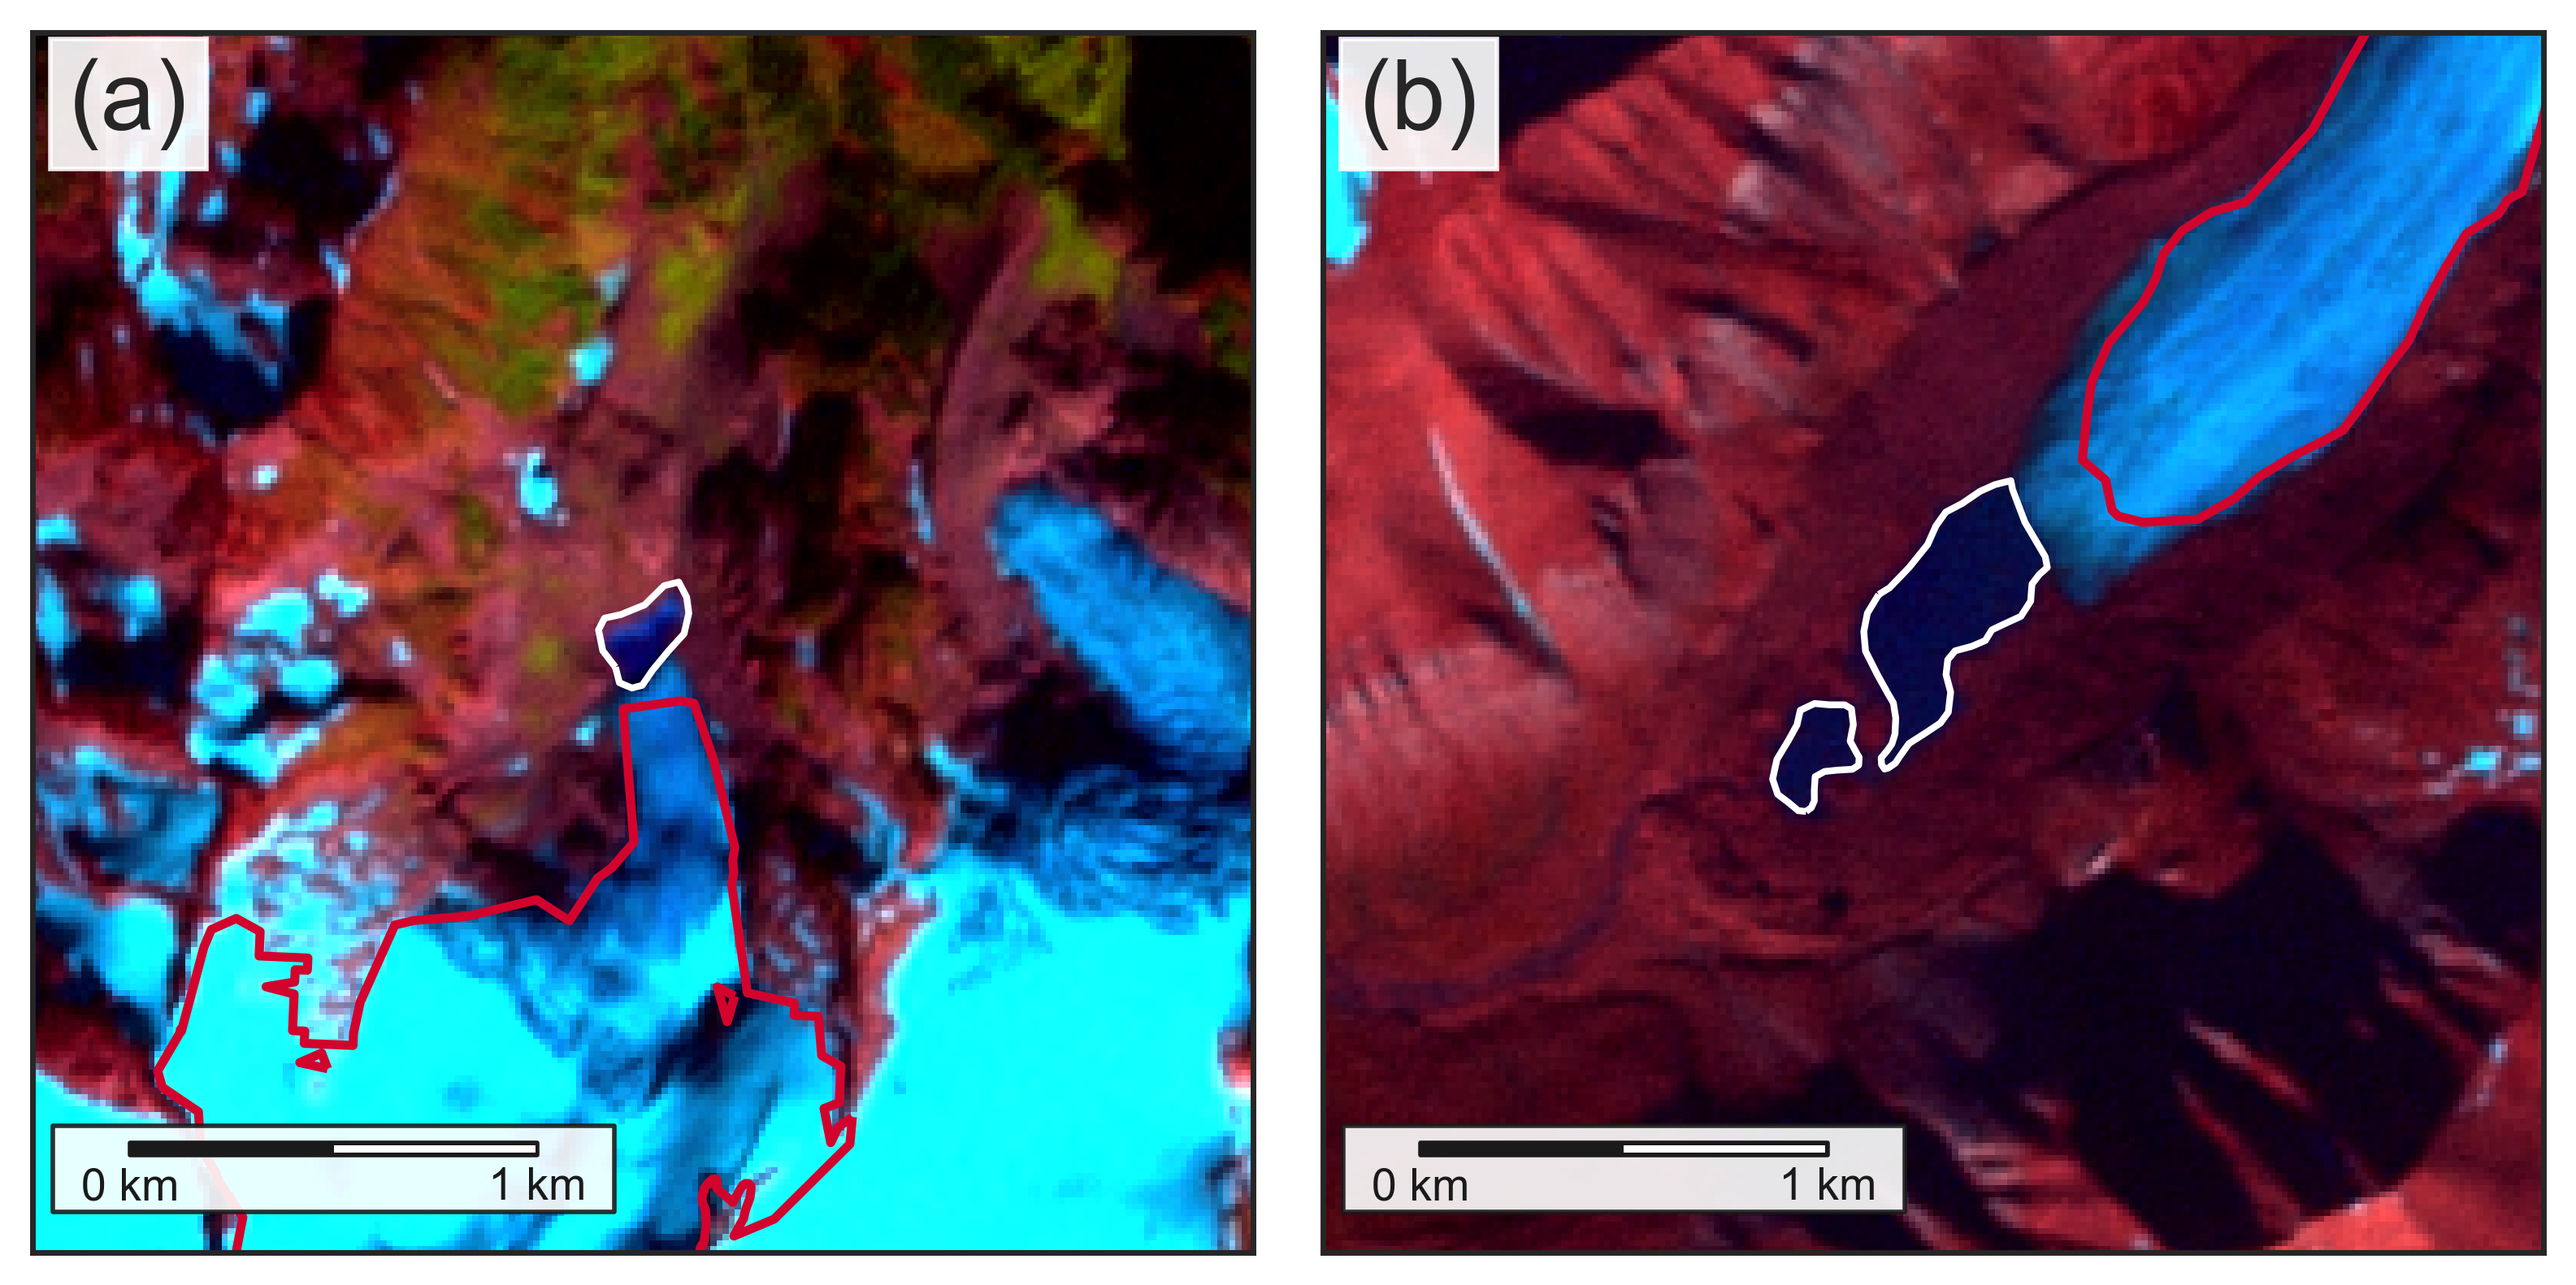
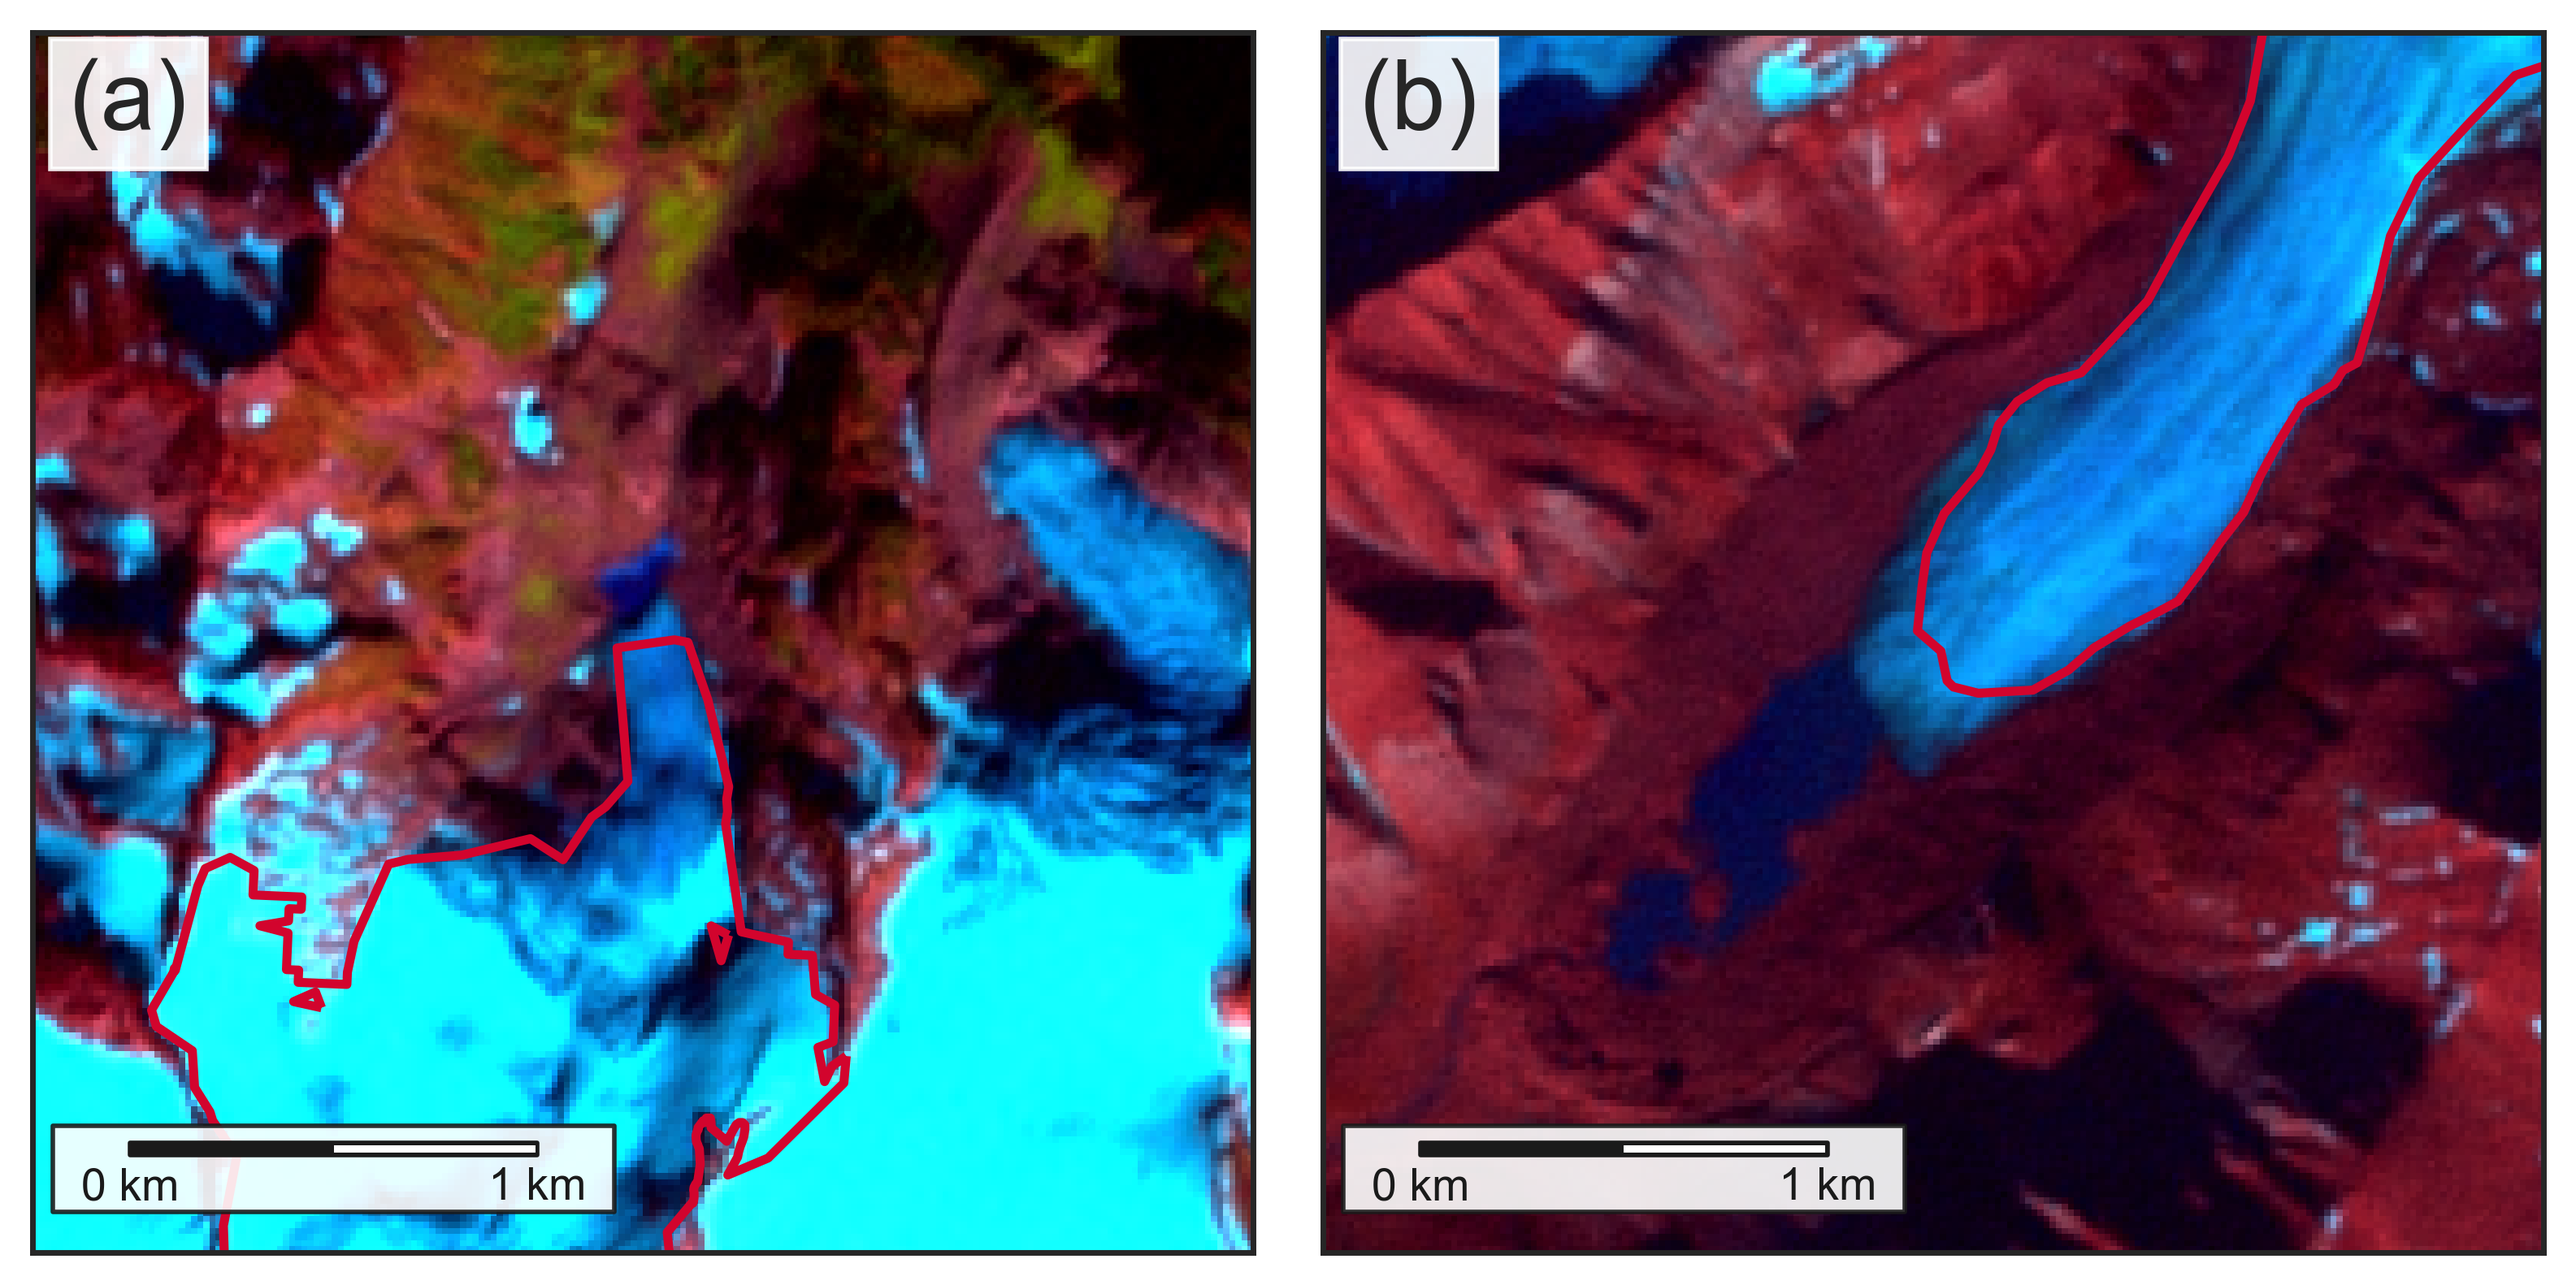
update figures, table after patching region 15

diff --git a/essd/tables/Table3_Summary.tex b/essd/tables/Table3_Summary.tex
@@ -15,11 +15,11 @@ region &  &  &  &  &  &  &  &  &  &  &  &  &  &  &  &  &  &  \\
 12 & 2275 & 1.4 & 2250 & 98.9 & 1.4 & 96.4 & 14 & 0.6 & 0.0 & 1.3 & 8 & 0.4 & 0.0 & 2.1 & 3 & 0.1 & 0.0 & 0.2 \\
 13 & 75613 & 50.3 & 74664 & 98.7 & 47.1 & 93.6 & 234 & 0.3 & 0.7 & 1.4 & 168 & 0.2 & 0.6 & 1.3 & 547 & 0.7 & 1.9 & 3.8 \\
 14 & 37562 & 33.1 & 37179 & 99.0 & 31.1 & 93.9 & 46 & 0.1 & 1.5 & 4.5 & 32 & 0.1 & 0.0 & 0.1 & 305 & 0.8 & 0.5 & 1.5 \\
-15 & 18587 & 16.0 & 18007 & 96.9 & 14.2 & 88.2 & 160 & 0.9 & 0.4 & 2.4 & 81 & 0.4 & 0.2 & 1.3 & 339 & 1.8 & 1.3 & 8.1 \\
+15 & 18587 & 16.0 & 18006 & 96.9 & 14.1 & 88.1 & 160 & 0.9 & 0.4 & 2.4 & 81 & 0.4 & 0.2 & 1.3 & 340 & 1.8 & 1.3 & 8.2 \\
 16 & 3695 & 1.9 & 3601 & 97.5 & 1.7 & 88.6 & 22 & 0.6 & 0.1 & 3.7 & 22 & 0.6 & 0.0 & 2.3 & 50 & 1.4 & 0.1 & 5.5 \\
 17 & 30634 & 27.7 & 29882 & 97.5 & 15.5 & 56.0 & 177 & 0.6 & 0.6 & 2.2 & 79 & 0.3 & 0.6 & 2.2 & 496 & 1.6 & 11.0 & 39.6 \\
 18 & 3018 & 0.9 & 2995 & 99.2 & 0.7 & 80.0 & 8 & 0.3 & 0.0 & 1.3 & 8 & 0.3 & 0.0 & 1.9 & 7 & 0.2 & 0.1 & 16.8 \\
 19 & 2742 & 133.4 & 2710 & 98.8 & 133.0 & 99.7 & 10 & 0.4 & 0.1 & 0.1 & 11 & 0.4 & 0.2 & 0.1 & 11 & 0.4 & 0.1 & 0.1 \\
-global & \textbf{274531} & \textbf{706.7} & \textbf{269303} & \textbf{98.1} & \textbf{595.3} & \textbf{84.2} & \textbf{1392} & \textbf{0.5} & \textbf{30.6} & \textbf{4.3} & \textbf{1103} & \textbf{0.4} & \textbf{32.0} & \textbf{4.5} & \textbf{2733} & \textbf{1.0} & \textbf{48.8} & \textbf{6.9} \\
+global & \textbf{274531} & \textbf{706.7} & \textbf{269302} & \textbf{98.1} & \textbf{595.3} & \textbf{84.2} & \textbf{1392} & \textbf{0.5} & \textbf{30.6} & \textbf{4.3} & \textbf{1103} & \textbf{0.4} & \textbf{32.0} & \textbf{4.5} & \textbf{2734} & \textbf{1.0} & \textbf{48.8} & \textbf{6.9} \\
 \end{tabular}
 
